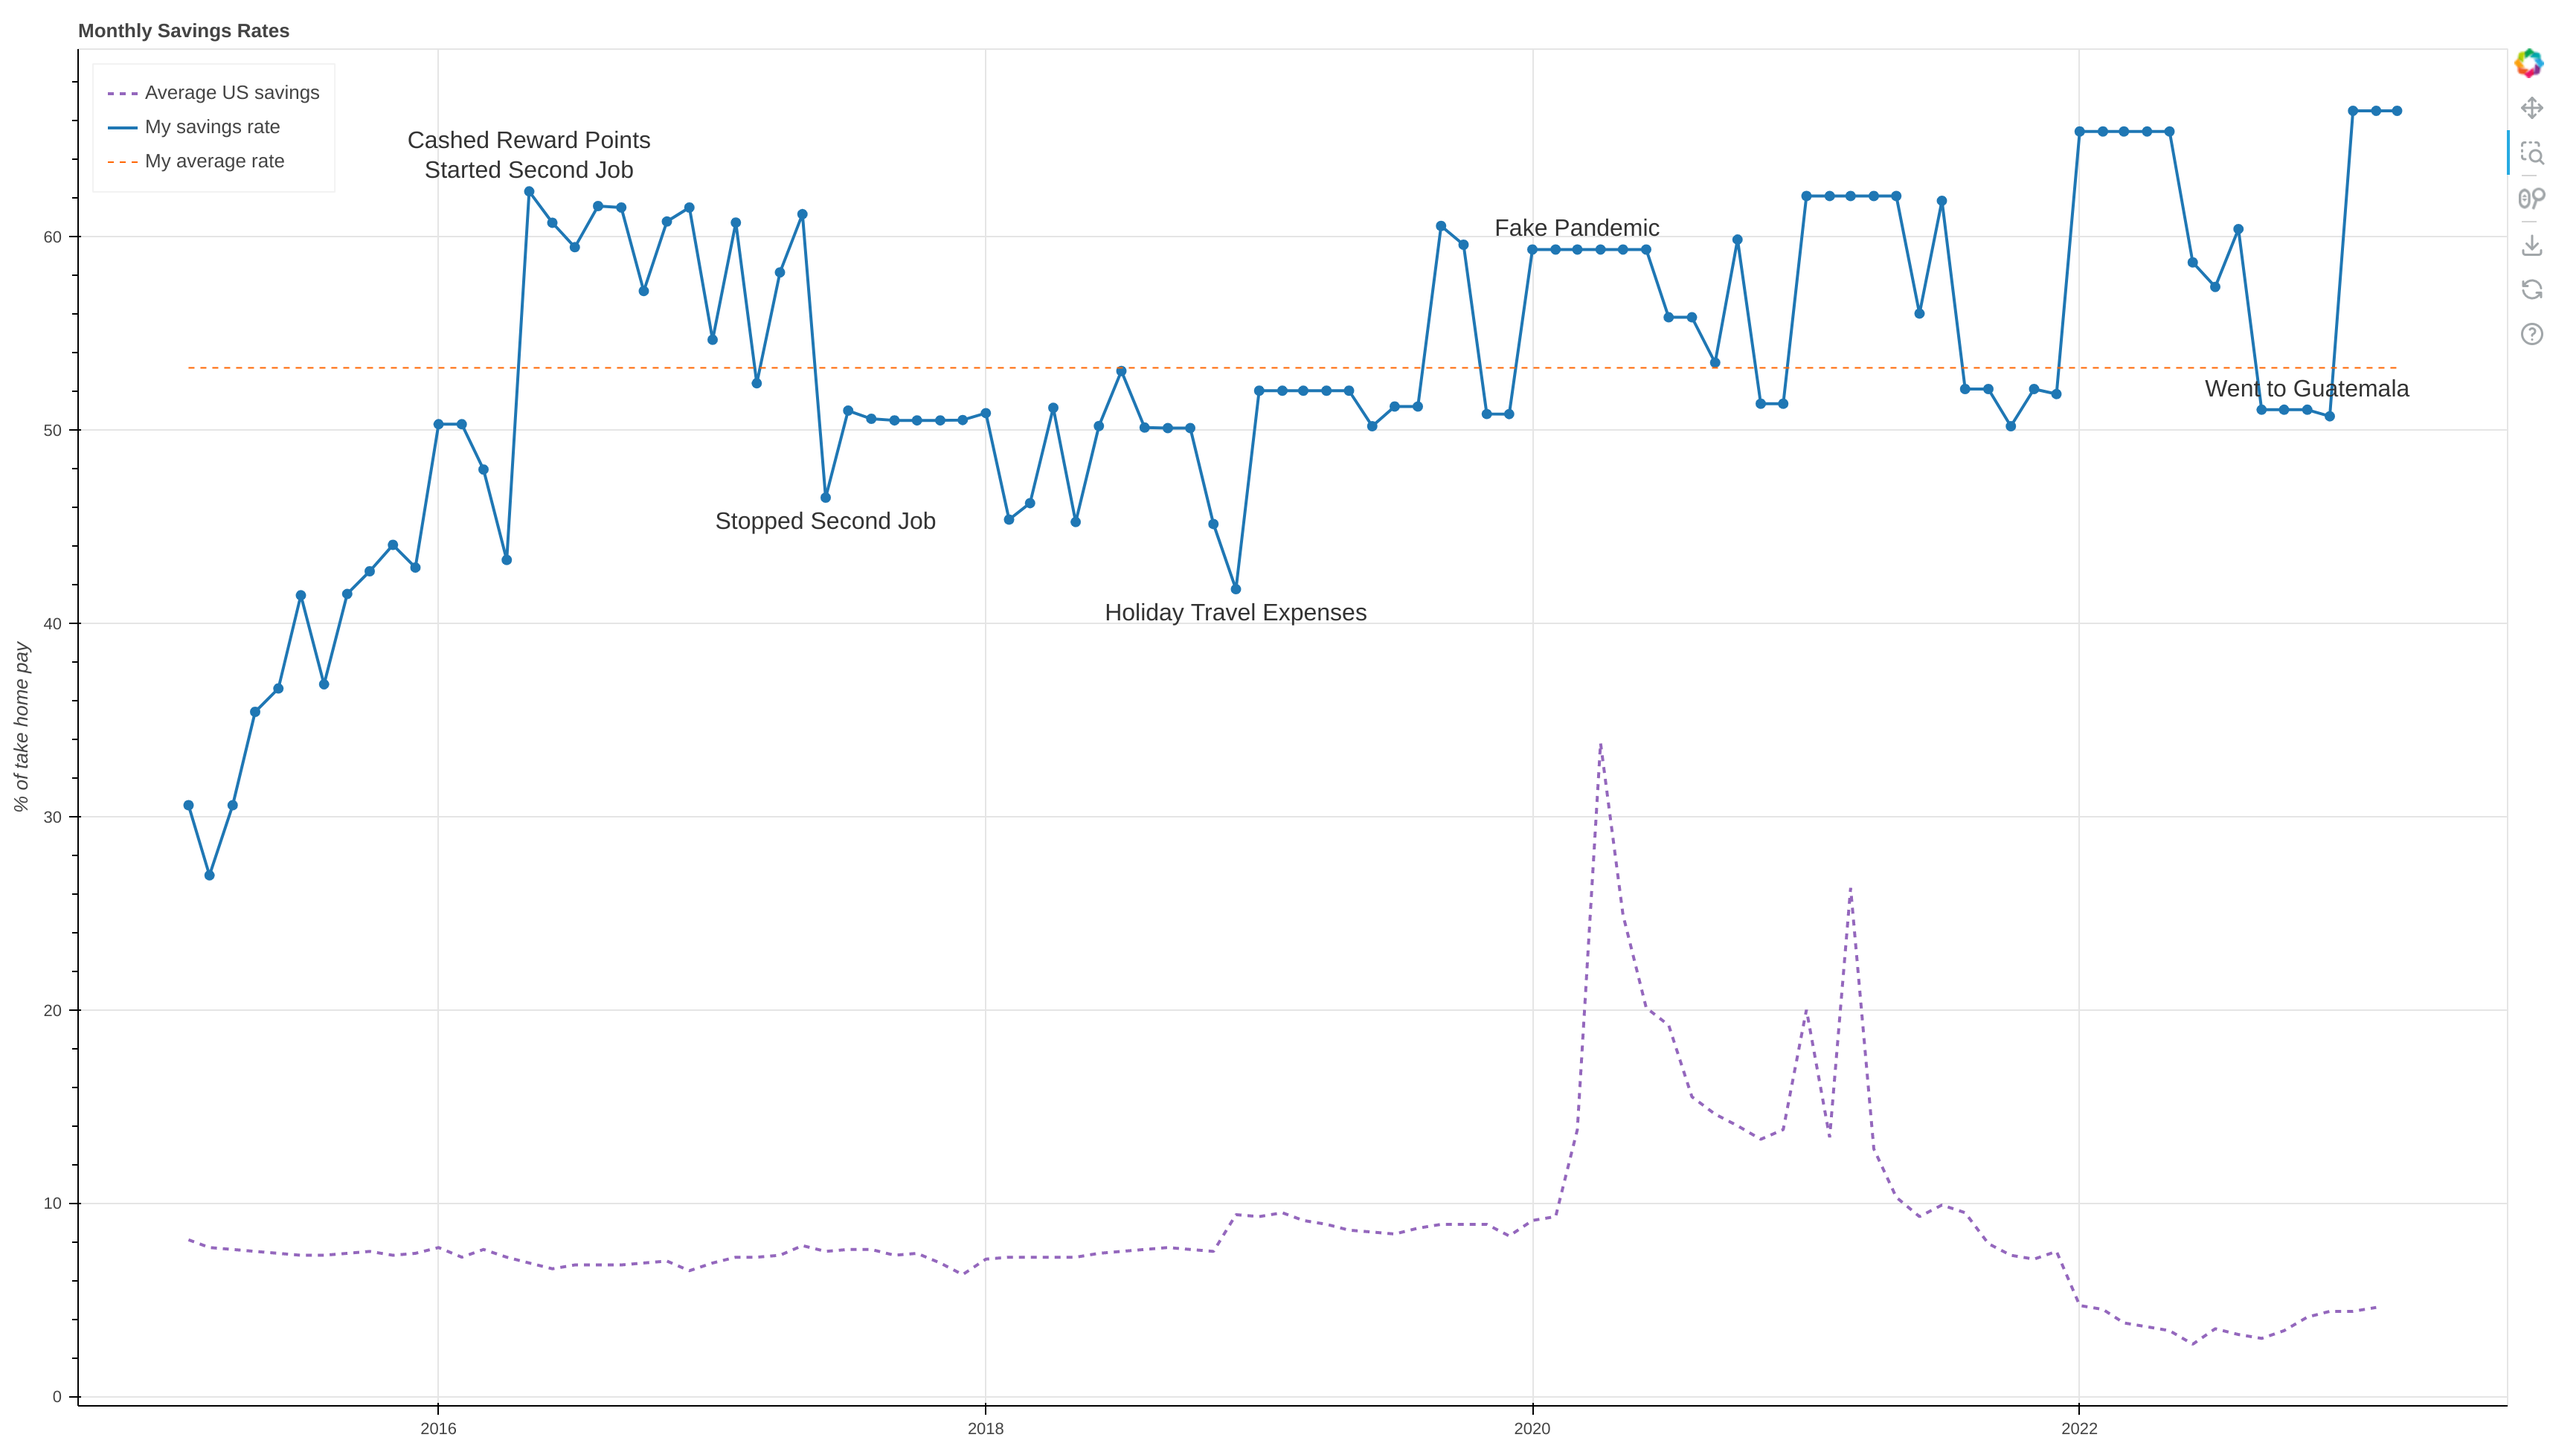
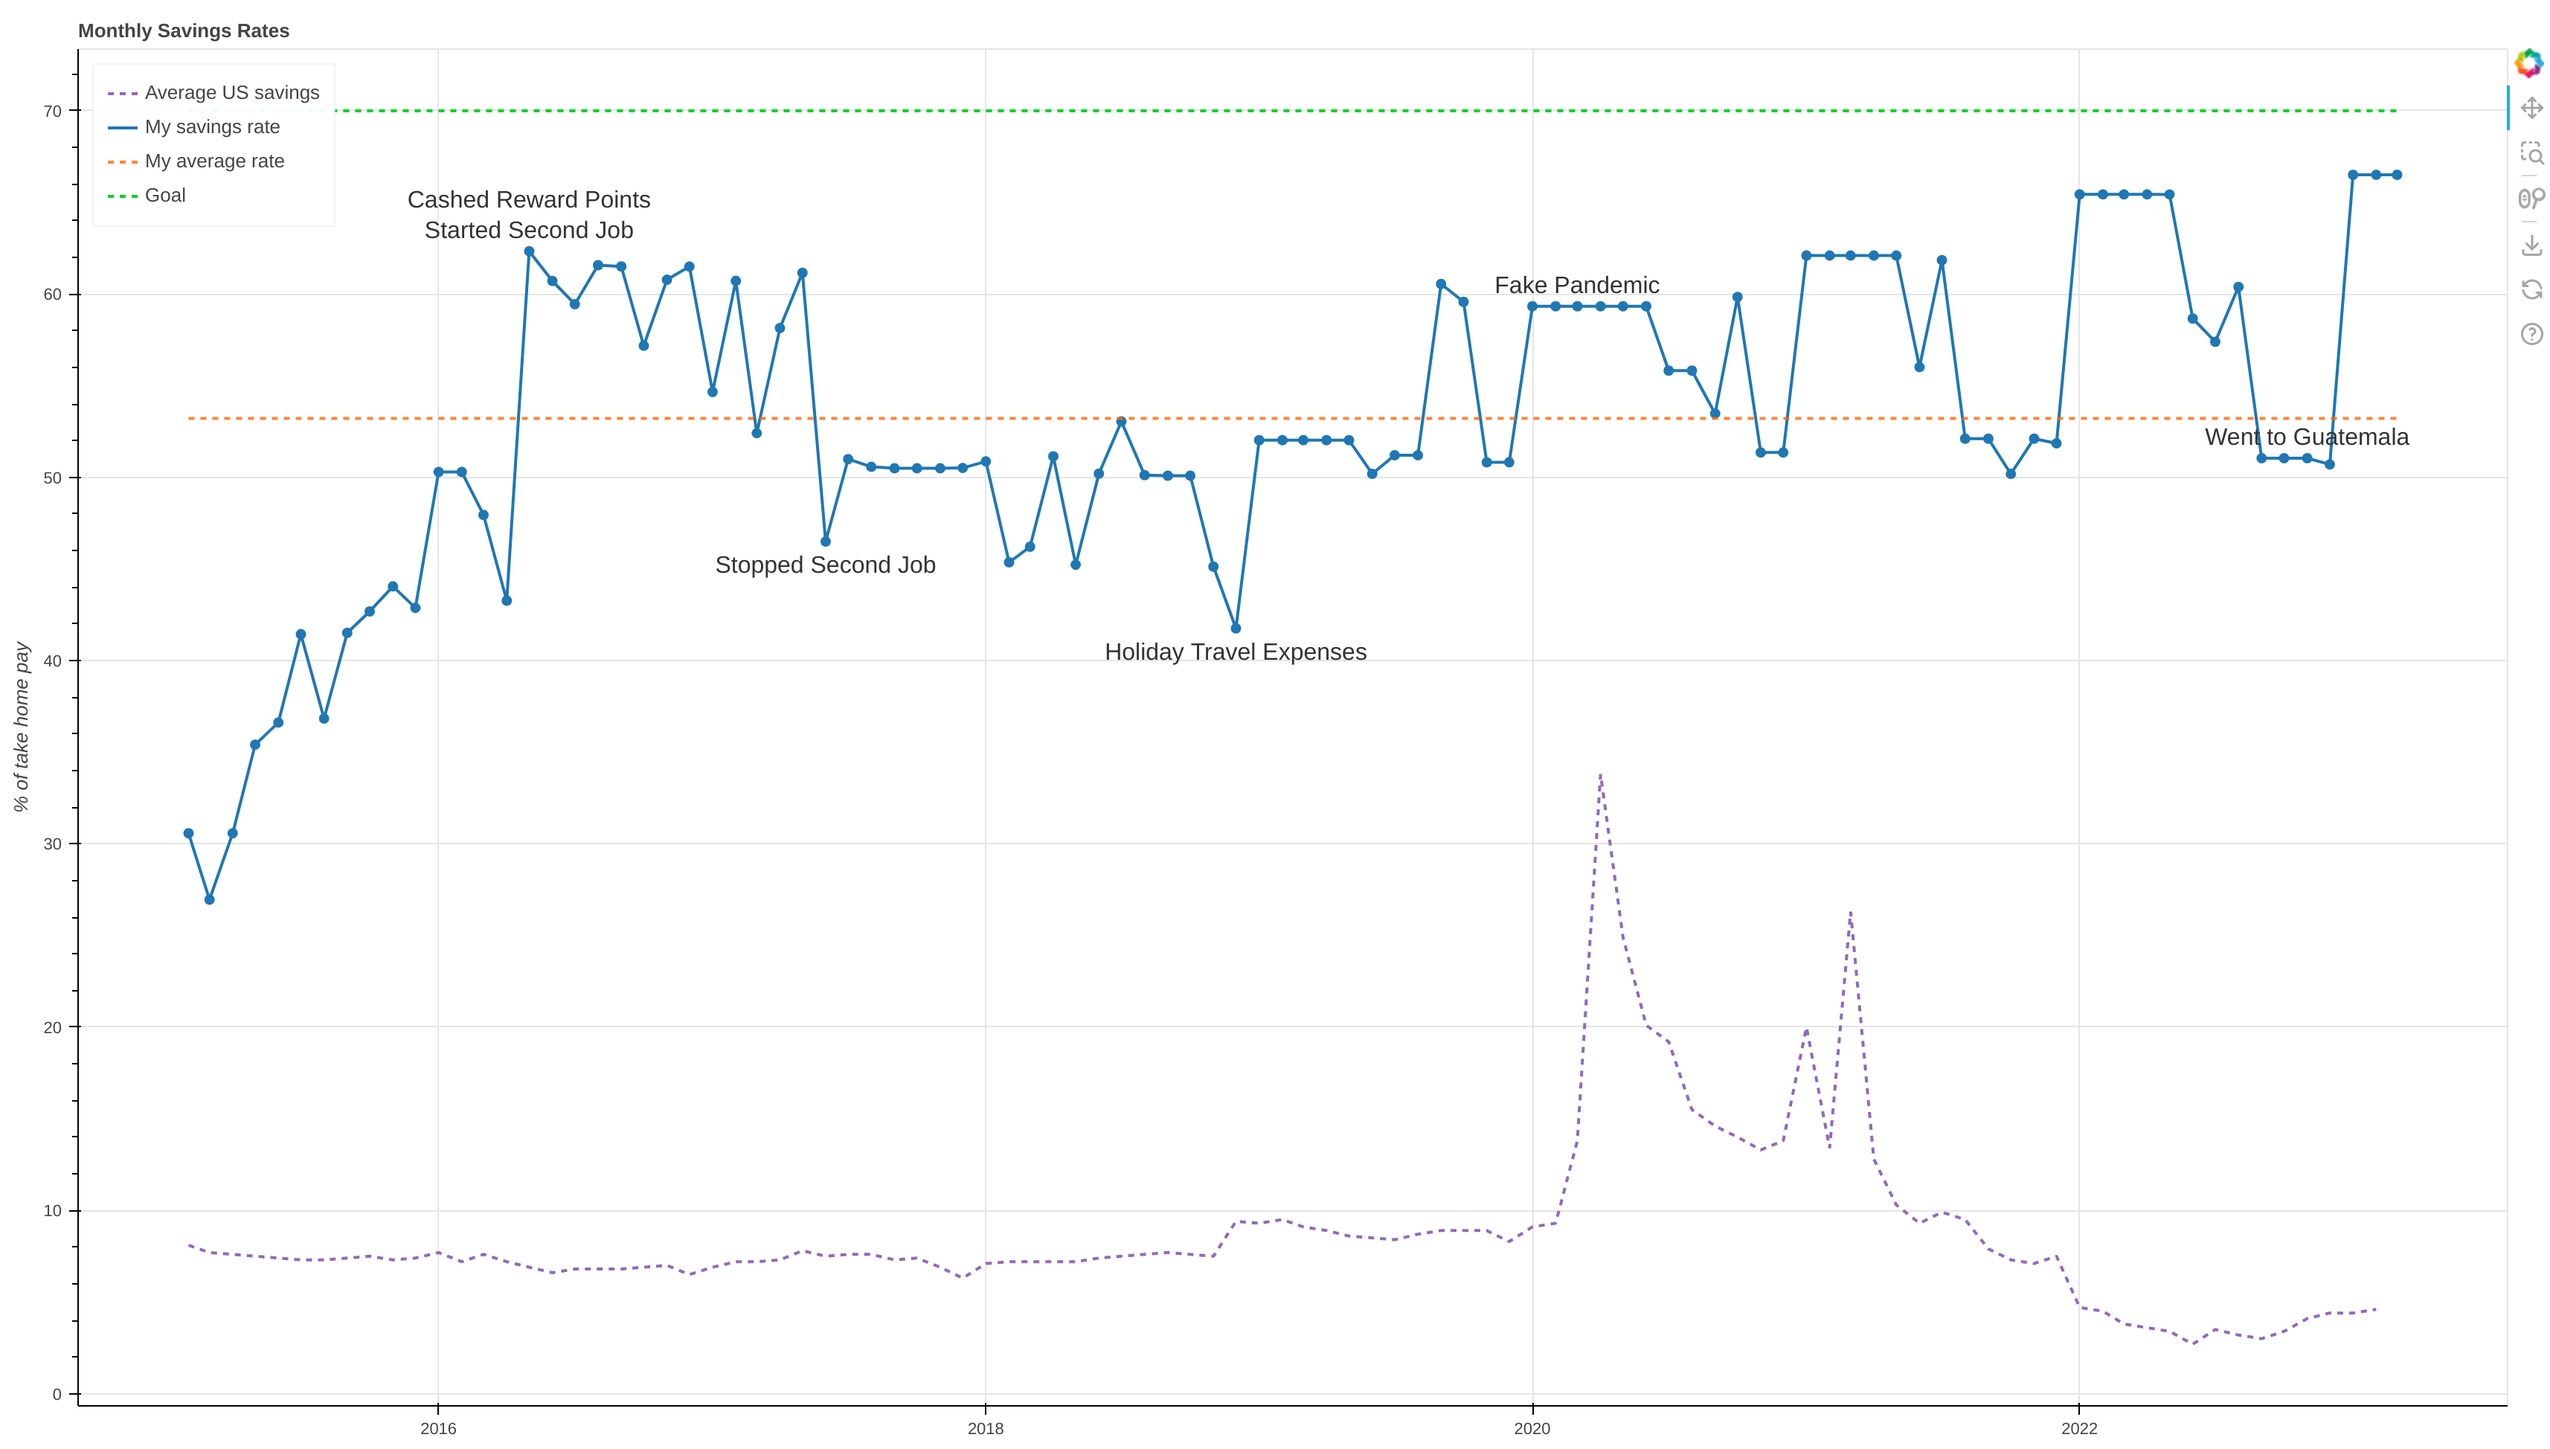
Added the ability to plot a savings rate goal.

diff --git a/tests/test_config.py b/tests/test_config.py
@@ -1,5 +1,6 @@
 import configparser
 import unittest
+from unittest import mock
 
 from savings_rate import (
     REQUIRED_INI_ACCOUNT_OPTIONS,
@@ -29,10 +30,10 @@ class TestSRConfigIni(unittest.TestCase):
     def setUp(self):
         self.config = SRConfig('tests/test_config/', 'config-test.ini')
         self.sr = SavingsRate(self.config)
-        self.config_no_notes = SRConfig(
-            'tests/test_config/', 'config-no-fred-no-notes.ini'
+        self.config_missing = SRConfig(
+            'tests/test_config/', 'config-missing-values.ini'
         )
-        self.sr_no_notes = SavingsRate(self.config_no_notes)
+        self.sr_missing_config = SavingsRate(self.config_missing)
 
     def test_load_account_config_without_ini(self):
         """
@@ -165,18 +166,32 @@ class TestSRConfigIni(unittest.TestCase):
     def test_load_notes_config(self):
         self.config.load_notes_config()
         self.assertEqual(self.sr.config.notes, 'My Notes')
-        self.config_no_notes.load_notes_config()
-        self.assertEqual(self.sr_no_notes.config.notes, '')
+        self.config_missing.load_notes_config()
+        self.assertEqual(self.sr_missing_config.config.notes, '')
+
+    def test_goal_is_set_to_numeric_value(self):
+        self.assertEqual(self.sr.config.goal, 70)
+
+    def test_goal_is_set_to_false_when_no_option_is_provided(self):
+        self.assertEqual(self.sr_missing_config.config.goal, False)
+
+    def test_goal_is_set_to_false_when_non_numeric_value_is_provided(self):
+        with mock.patch('builtins.print') as mock_print:
+            config_bad = SRConfig('tests/test_config/', 'config-bad-values.ini')
+            self.assertEqual(config_bad.goal, False)
+            mock_print.assert_called_once_with(
+                'The value for \'goal\' should be numeric, e.g. 65.'
+            )
 
 
 class TestFREDConfig(unittest.TestCase):
     def setUp(self):
         self.config = SRConfig('tests/test_config/', 'config-test.ini')
         self.sr = SavingsRate(self.config)
-        self.config_no_fred = SRConfig(
-            'tests/test_config/', 'config-no-fred-no-notes.ini'
+        self.config_missing = SRConfig(
+            'tests/test_config/', 'config-missing-values.ini'
         )
-        self.sr_no_fred = SavingsRate(self.config_no_fred)
+        self.sr_no_fred = SavingsRate(self.config_missing)
 
     def test_load_fred_config(self):
         self.sr.config.load_fred_url_config()

diff --git a/savings_rate.py b/savings_rate.py
@@ -104,6 +104,7 @@ class SRConfig:
         self.fred_api_key = ''
         self.fred_url = ''
         self.notes = ''
+        self.goal = False
 
         self.load_user_config()
 
@@ -174,6 +175,7 @@ class SRConfig:
         self.load_fred_url_config()
         self.load_fred_api_key_config()
         self.load_notes_config()
+        self.load_goal_config()
 
     def load_notes_config(self):
         """
@@ -210,6 +212,25 @@ class SRConfig:
             bool
         """
         return bool(self.fred_api_key and self.fred_url)
+
+    def load_goal_config(self):
+        """
+        Savings rate goal the user is trying to hit.
+
+        Args:
+            None
+
+        Returns:
+            None
+        """
+        try:
+            goal = self.user_config.get('Sources', 'goal')
+            try:
+                self.goal = float(goal)
+            except (ValueError):
+                print('The value for \'goal\' should be numeric, e.g. 65.')
+        except (configparser.NoOptionError):
+            self.goal = False
 
     def validate_user_ini(self):
         """
@@ -947,9 +968,12 @@ class Plot:
             average_rate,
             legend_label="My average rate",
             line_color="#ff6600",
-            line_width=1,
+            line_width=2,
             line_dash="4 4",
+            line_alpha=0.8,
         )
+
+        # Text annotations
         p.text(
             x=x,
             y=y,
@@ -958,6 +982,17 @@ class Plot:
             text_align="center",
             y_offset=y_offset,
         )
+
+        # Goal
+        if self.user.config.goal:
+            p.line(
+                x,
+                self.user.config.goal,
+                legend_label="Goal",
+                line_color="#01D423",
+                line_width=2,
+                line_dash="4 4",
+            )
 
         # Plot the savings rate of enemies if war_mode is on
         if self.user.config.war_mode is True:

diff --git a/README.md b/README.md
@@ -92,6 +92,7 @@ The majority of the main settings are listed under `[Sources]`. Settings include
 - **employer_match** - the name of a column header in your spreadsheet that represents your employer match.
 - **taxes_and_fees** - the names of column headers in your spreadsheet that contain taxes and fees.
 - **savings_accounts** - the names of column headers in your spreadsheet that contain savings data from an account or accounts.
+- **goal** - optional setting that allows you to set a savings rate goal you're trying to reach.
 - **war** - allows you to show or hide, "enemy" plots on your graph. Set this to, "off" if you only want to see your own data.
 
 ##### Graph settings
